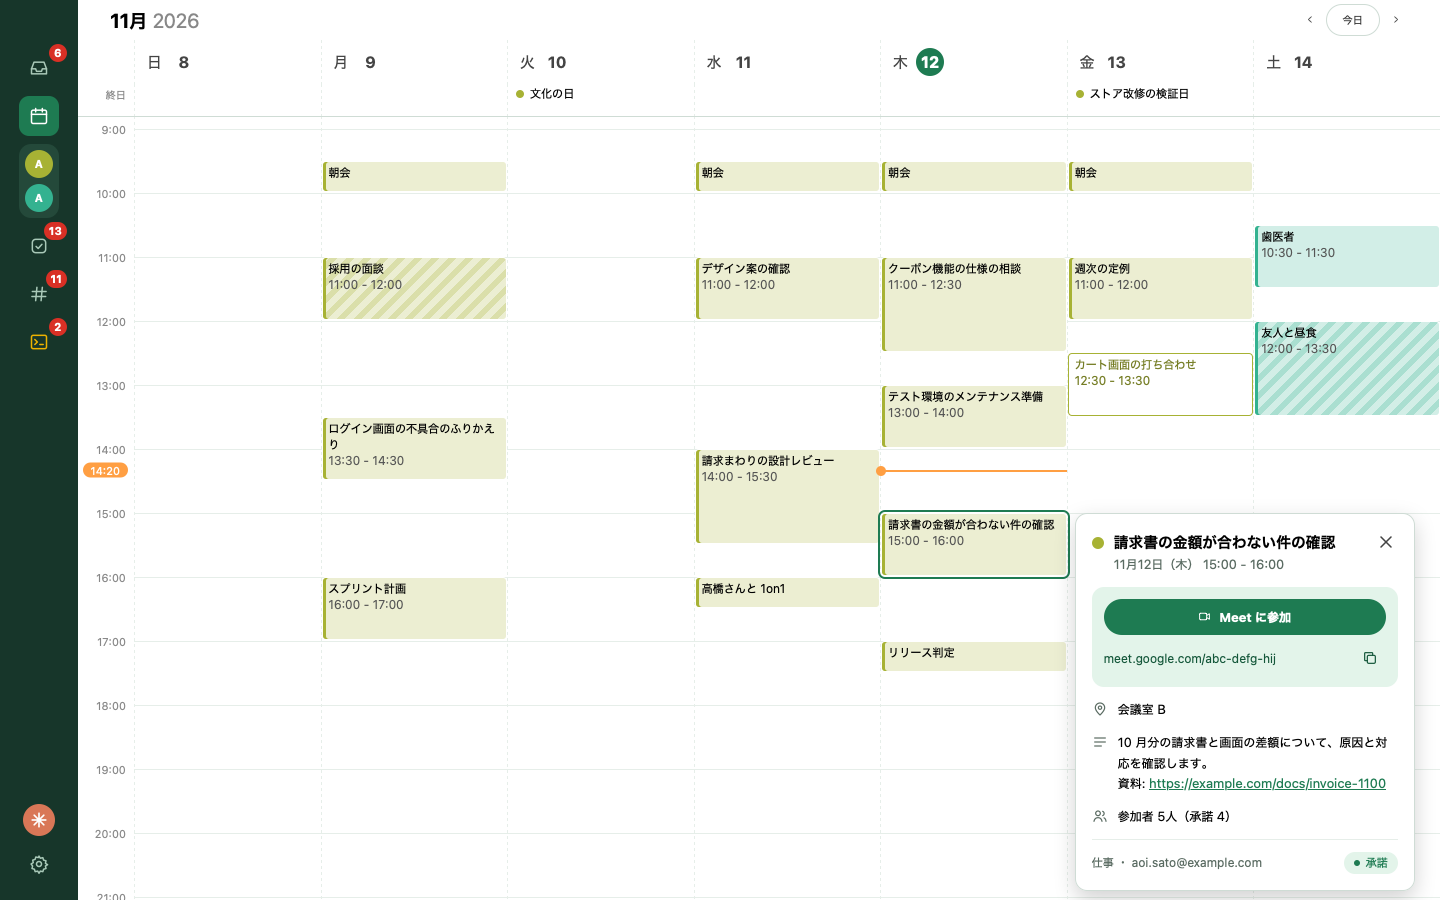
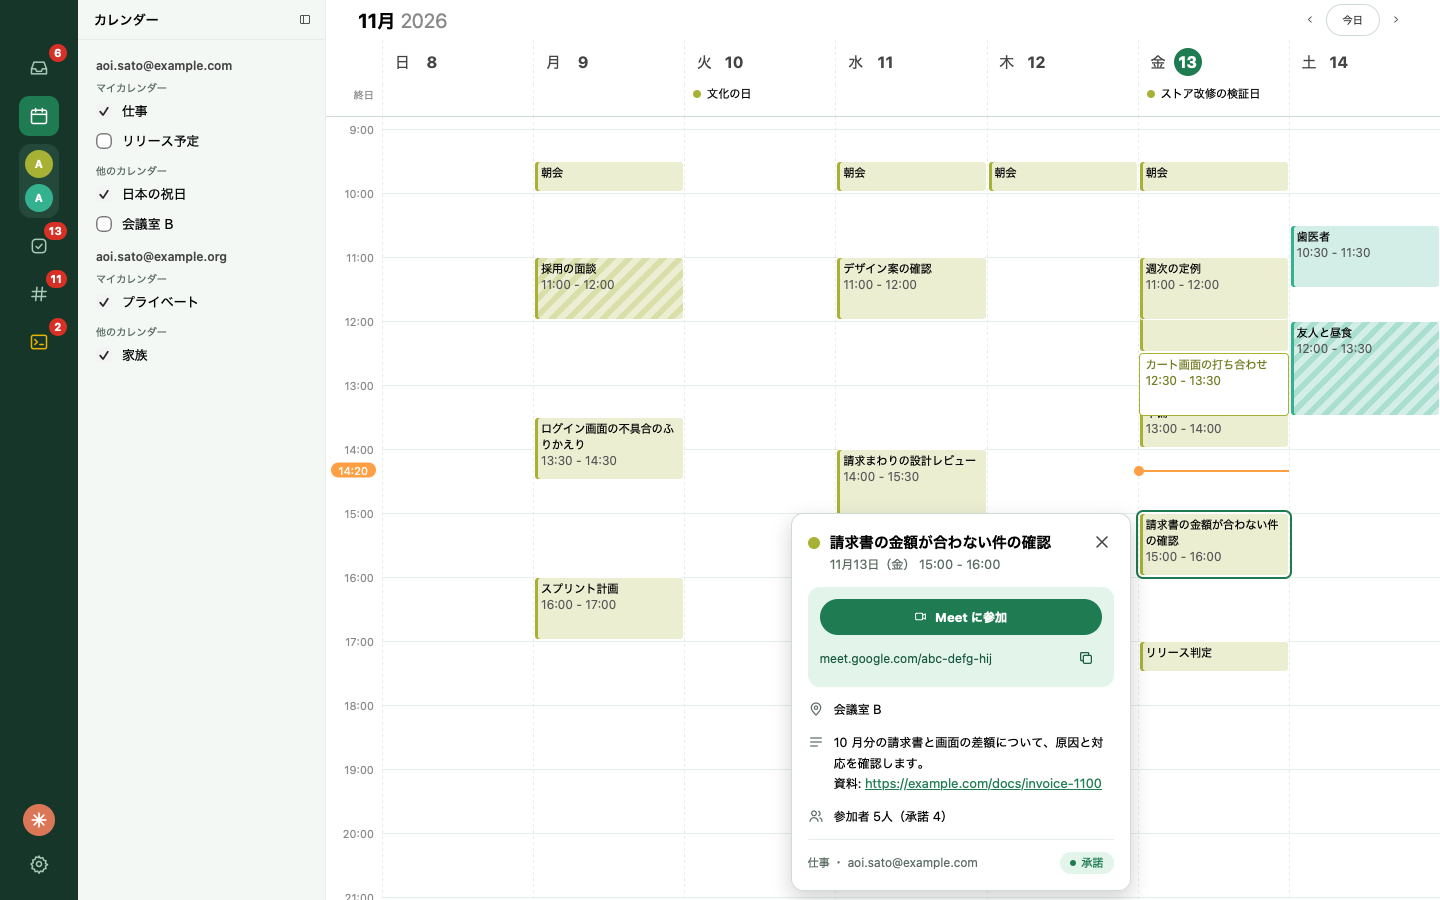
docs: v0.64.0 の CHANGELOG と機能の説明を書き、README の写真を撮り直す
カレンダーのパネル（C-4）と Todo の右側の最初の幅を書く。
README の写真の spec にカレンダーの一覧を足し、#418 で specs を名指しにした
capability から wdio:specs を外して、写真の spec が走るようにする。

diff --git a/.claude/skills/readme-product/shots/readme-shots.e2e.ts b/.claude/skills/readme-product/shots/readme-shots.e2e.ts
@@ -1,4 +1,5 @@
 // Temporary: the product screenshots of the README. Not a test; made-up data only.
+import type { CalendarChoices } from "../../ts/bindings/CalendarChoices";
 import type { Info } from "../../ts/bindings/Info";
 import type { OrcaRow } from "../../ts/bindings/OrcaRow";
 import type { TaskItem } from "../../ts/bindings/TaskItem";
@@ -313,6 +314,27 @@ function week(): Week {
   };
 }
 
+// The calendars the panel of C-4 lists, shown as the week draws them.
+function calendarChoices(): CalendarChoices {
+  const cal = (id: string, name: string, color: string, mine: boolean, shown = true) => ({ id, name, color, mine, shown });
+  return {
+    accounts: [
+      {
+        account: WORK,
+        calendars: [
+          cal(WORK, "仕事", "#039be5", true),
+          cal("release@example.com", "リリース予定", "#33b679", true, false),
+          cal("ja.japanese#holiday@group.v.calendar.google.com", "日本の祝日", "#0b8043", false),
+          cal("room-b@example.com", "会議室 B", "#f4511e", false, false),
+        ],
+      },
+      { account: HOME, calendars: [cal(HOME, "プライベート", "#8e24aa", true), cal("family@example.org", "家族", "#e67c73", false)] },
+    ],
+    needsLogin: [],
+    failed: {},
+  };
+}
+
 // ---- Todo ----
 
 const dated = (t: TaskItem, date: string, time: string | null = null): TaskItem => ({ ...t, due: { date, time, string: date, recurring: false } });
@@ -433,6 +455,7 @@ const common = () => ({
   slack_timeline: feed(),
   todoist_load: todo(),
   calendar_week: week(),
+  calendar_choices: calendarChoices(),
   app_info: { version: "0.41.1", updatable: true },
 });
 

diff --git a/.claude/skills/readme-product/shots/wdio.shots.conf.ts b/.claude/skills/readme-product/shots/wdio.shots.conf.ts
@@ -6,7 +6,7 @@ export const config = {
   specs: ["__ROOT__/e2e/specs/readme-shots.e2e.ts"],
   maxInstances: 1,
   capabilities: [base.capabilities[2]].map((c) => {
-    const { "wdio:exclude": _x, ...rest } = c as Record<string, unknown>;
+    const { "wdio:exclude": _x, "wdio:specs": _s, ...rest } = c as Record<string, unknown>;
     return rest;
   }),
 };

diff --git a/docs/features.md b/docs/features.md
@@ -16,9 +16,10 @@ title: 機能
 - 未読のスレッドの件数を、サイドメニューの受信トレイのボタンに表示する（0 件のときは消える。macOS の Dock のアイコンのバッジには、この件数と、Todo の期限が来た未完了の件数の合計を表示する。期限の時刻が過ぎるとウィンドウが隠れていても自動で増える）
 - 設定は「Google」「カレンダー」「Todoist」「Slack」「Claude」「Orca」「フォント」「アップデート」の 8 つのタブに分かれ、開くと Google のタブが出る。「設定」の見出しとタブは、カードをスクロールしても上に残る
 - 全アカウントの Google Calendar の予定を、1 つの週表示にまとめて表示する（閲覧のみ。サイドメニューのカレンダーのアイコンで開く）。自分が未定と答えた予定は斜線、まだ返信していない予定は色を反転して表示する。週の始まりの曜日は、設定の「カレンダー」タブで日曜から土曜の中から選べる（初期値は日曜）
+- カレンダー画面の週表示の左に「カレンダー」のパネルがあり、表示するカレンダーをチェックボックスで選ぶ。アカウントごとに、メールアドレスの下を「マイカレンダー」（自分が持ち主のカレンダー）と「他のカレンダー」（追加した他の人のカレンダー、祝日、会議室など）に分けて並べ、チェックボックスはカレンダーの色になる。切り替えるとすぐ週表示が変わり、選んだ状態はアプリの設定フォルダに保存する（Google 側の表示設定は書き換えない。まだ選んでいないカレンダーは Google 側の表示設定に従う）。見出しの横のボタンでパネルを畳むと、週表示が広がる。MCP サーバーの list_events も、ここで選んだカレンダーだけを読む
 - カレンダーの予定を押すと、その横に詳細を出す（日時、Meet に参加するボタンと URL のコピー、場所、説明、参加者の人数と承諾した人数、カレンダー名とアカウント、自分の回答）。詳細は週の取得と一緒に取り、押したときの通信はない。別の予定を押すと切り替わり、同じ予定をもう一度押すか、✕・Escape・外側のクリックで閉じる
 - Todoist のタスクを、プロジェクト別（Todoist と同じ親子関係でネストする）と「今日」の一覧で表示し、完了・追加・編集（説明とサブタスクを含む）する。説明は Markdown で表示し、10 行を超える説明は 10 行目で折りたたんで「… 続きを表示（残り n 行）」で全文を出し、押すと編集して「保存」で登録する。「今日」で追加した、日付の無いタスクは期限が今日になる。期限は月のカレンダーから選べる。一覧の行は 3 段で、タスク名、説明の 1 行目（URL は下線）、期限・ラベル・サブタスクの数（「今日」の一覧では右端にプロジェクト）の順に出す。サブタスクは一覧の行の左のトグルで開閉する。詳細画面の右にプロジェクトと日付を出し、日付はマウスを乗せると出る × で消せる。サブタスクの詳細には、名前の上に直接の親タスクを出し、押すと親を開く（左の丸いチェックで、親タスクを完了にできる）。詳細画面の右の「ラベル」には、タスクのラベルを色の点と名前で並べ、× で外せる。＋で出る欄で、ラベルを絞り込んでタスクに付け外しし、無い名前は新しく作って付けられる。詳細画面の右上の「…」メニューから、タスクのリンクや説明（Markdown のまま）をコピーしたり、タスクを削除したりできる（削除は二度押す）。説明は、文字を選んでコピーでき（選んでも編集は始まらない）、マウスを乗せると右上に出るコピーのアイコンでもコピーできる。一覧の行にマウスを乗せると、詳細を開かずに名前・期限・プロジェクトを変えられ、行の左端をドラッグして、左のプロジェクトへ移したり、別のタスクの行に落としてそのタスクのサブタスクにしたりすることもできる（落とせる行は枠で示す。自分自身、自分のサブタスク、今の親には落とせない）。サブタスクは、行にマウスを乗せると出る「親タスクから外す」ボタンか、今いるプロジェクトへのドラッグで、親から外して単独のタスクに戻せる。詳細画面のサブタスクの行（未完了のもの）も、一覧の行と同じく、マウスを乗せると出るボタンとドラッグで、別のプロジェクトへ移す、親から外す、詳細のほかのサブタスクの下へ入れる、ができる。詳細画面の下には、タスクのコメント（投稿者、日時、Markdown の本文、添付ファイル）を一覧し、コメントの追加と、ファイル 1 つ（100 MB まで）の添付ができる（⌘Enter か送信ボタンで送り、Enter は改行になる）。受信トレイのスレッドから「Todo にする」でタスクを作る。Todoist に接続できないときは、前回取得した内容を表示する（Todoist の個人 API トークンを使う。サイドメニューの Todo のアイコンで開き、期限（日付と時刻。時刻の無い日付は 0 時）が来た未完了の件数をそのアイコンに表示する。期限の無いタスクは数えない。接続の状態の確認と解除は、設定の「Todoist」タブで行う。一覧の見出しの ✳ のアイコンから、要約プロンプトの画面を開ける）
-- Todo 画面の右側は、トークンの入力欄と下書きのページのあいだを除いて、いつも開いていて、2 段になっている。1 段目は、左の見出しと同じ淡い色の帯で、右端に Claude と「Orca に渡す」の 2 つのアイコンだけがあり、押して切り替える（Orca に渡すのアイコンは、タスクを開いているあいだだけ押せる。タスクを離れると Claude に戻る）。2 段目は選んだ機能の見出しと操作で、その下が中身になる。2 つのペインは同時には出ず、右側の幅は仕切りで画面の 30% から 45% まで変えられる（最初は画面の 40%）。左の見出しには、Todo そのものの操作（一覧のボタン、戻るボタン、見出し、「その他」）だけが残る。Claude のペインでは、「年末まで週 2 件ずつ」のように言葉で頼むと、Claude がタスクの案を、名前、日付、プロジェクトのカードで返す。カードの上で名前、日付、プロジェクトを直し、「追加」を押して初めて Todoist にタスクを作る。「却下」は何も作らずにカードを閉じる。続けて頼むと、今のカードの内容も Claude に渡る。頼みを書く欄の枠の中で、この相談のモデルと effort を切り替えられる（依頼、会話、今日の日付、Todoist のプロジェクトの名前を送る。Claude Code を使えるときだけ）
+- Todo 画面の右側は、トークンの入力欄と下書きのページのあいだを除いて、いつも開いていて、2 段になっている。1 段目は、左の見出しと同じ淡い色の帯で、右端に Claude と「Orca に渡す」の 2 つのアイコンだけがあり、押して切り替える（Orca に渡すのアイコンは、タスクを開いているあいだだけ押せる。タスクを離れると Claude に戻る）。2 段目は選んだ機能の見出しと操作で、その下が中身になる。2 つのペインは同時には出ず、右側の幅は仕切りで画面の 30% から 45% まで変えられる（最初はいちばん狭い画面の 30%）。左の見出しには、Todo そのものの操作（一覧のボタン、戻るボタン、見出し、「その他」）だけが残る。Claude のペインでは、「年末まで週 2 件ずつ」のように言葉で頼むと、Claude がタスクの案を、名前、日付、プロジェクトのカードで返す。カードの上で名前、日付、プロジェクトを直し、「追加」を押して初めて Todoist にタスクを作る。「却下」は何も作らずにカードを閉じる。続けて頼むと、今のカードの内容も Claude に渡る。頼みを書く欄の枠の中で、この相談のモデルと effort を切り替えられる（依頼、会話、今日の日付、Todoist のプロジェクトの名前を送る。Claude Code を使えるときだけ）
 - メールを Slack に貼る（詳細画面の「Slack に貼る」で専用の画面が開き、スレッドの最新のメッセージの件名・差出人・日時・本文が編集欄に入る。編集欄の文章を直して、貼るときに選んだチャンネルかスレッドに投稿する。「元の内容に戻す」で最初の文に戻せる。宛先は、最近使った先、参加しているチャンネルの検索、Slack のリンクから選ぶ。複数のワークスペースを持て、トークンはサイドメニューの設定で追加する）
 - サイドメニューは、開いている画面に合わせて、その機能のアカウントを、アイコンの下に並べる（メールとカレンダーでは Google のアカウントをカレンダーのアイコンの下に、Slack ではワークスペースを Slack のアイコンの下に出す。Todo と設定では出さない。ワークスペースの絵は、そのワークスペースでの自分のアイコン）
 - サイドメニューの Slack のアイコンで Slack の画面を開く。画面の左のサイドメニューに、「未読メッセージ」（未読の件数つき）と「ウォッチ」の 2 つのボタンと、ワークスペースごとのチャンネル（参加しているパブリックとプライベート。名前順で、未読の件数つき。DM とグループ DM は出さない）が並び、境目をドラッグして幅を変えられる。ボタンで、全ワークスペース分のメッセージの「未読」と「ウォッチ」の一覧を 1 つずつ切り替える（送信者のアイコンと名前、本文（ふつうの投稿は 2 行まで、ボットの投稿は項目ごとに書式つきで）、返信の件数を出す。新着は自動で読み直す。設定の「Slack」タブの「リアルタイム更新」でワークスペースごとに App-Level Token を登録すると、Socket Mode でつなぎ、投稿・返信・変更・削除を約 1 秒で一覧と未読の件数に出す）。「未読」は、チャンネルごとにまとめ、チャンネルごとに新しい 10 件までを、古い順に日付の区切りの下に、名前の横に時刻をつけて出す（全体の上限はない）。「ウォッチ」は新しい順で、行に日時を出す。未読のメッセージは、既読になると一覧から消える。一覧の上のヘッダーには「Slack」の見出しと、「一覧に出さないチャンネル」を開く設定のアイコンだけが付く。未読の件数は Slack のアイコンにも出す（20 件を超えると `20+`。0 件のときは消える）。サイドメニューのチャンネルにマウスを乗せると出る丸にマイナスのアイコンで、そのチャンネルを一覧に出さないようにでき、設定の「Slack」タブで戻せる。しおりで、そのスレッドをウォッチでき、ウォッチしたスレッドは外すまで「ウォッチ」に残り、新しい返信があると「新しい返信 N 件」を出す

diff --git a/CHANGELOG.md b/CHANGELOG.md
@@ -3,6 +3,12 @@
 The newest version comes first.
 The project was named cookup until v0.14.6.
 
+## v0.64.0
+
+C-4: the calendar screen has a panel, left of the week, to choose the calendars to show (#330, #331, #332). It lists every calendar of each account, under its address, in "マイカレンダー" (the calendars the account owns) and "他のカレンダー" (a person's calendar, holidays, rooms), each with a checkbox in the calendar's color. A change draws the week again at once and is saved in `calendar-selection.json`; nothing is written to Google, and a calendar never chosen follows its choice at Google, so the week is as before until the owner changes it. A button beside the heading folds the panel, and the week takes its width. The `list_events` tool of the MCP server reads the same calendars.
+
+T-7: the right side of the Todo screen starts at its least width, 30% of the screen, no longer 40% (#513).
+
 ## v0.63.5
 
 S-7, S-18, T-7: the field that asks Claude is one part on the Todo screen, in the pane of a Slack thread and in the pane of a Todo draft (#497). In each the model and effort selects sit inside the frame of the field, in a row under the text at the left of the round send button; in the Slack thread and the Todo draft they were under the frame. The field of the Slack thread no longer shows "Claude に頼みたいことを書く".

diff --git a/docs/setup.md b/docs/setup.md
@@ -42,6 +42,7 @@ npx tauri dev
 Todoist に接続している場合は、取得したタスクとプロジェクトとラベルが、同じ場所の `todoist-cache.json` に保存されます（接続できないときの表示に使い、接続を解除すると消えます）。
 表示した週の予定は、場所や説明などの詳細を含めて、同じ場所の `calendar-cache.json` に保存されます（起動直後の表示に使い、アカウントを削除すると消えます）。
 週の始まりの曜日は、同じ場所の `calendar-settings.json` に保存されます。
+表示するカレンダーの選択は、同じ場所の `calendar-selection.json` に保存されます（アカウントを削除すると、そのアカウントの分が消えます）。
 Claude のモデルと effort は、用途ごとに、同じ場所の `claude-settings.json` に保存されます。
 Claude Code の接続方式（サブスクリプションか API キーか）は、同じ場所の `claude-auth.json` に保存されます。API キーは OS の資格情報の保管場所に保存し、画面には出しません。
 Todo の要約プロンプトを編集すると、編集した指示が同じ場所の `todo-prompt.json` に保存されます（デフォルトに戻すと消えます）。
